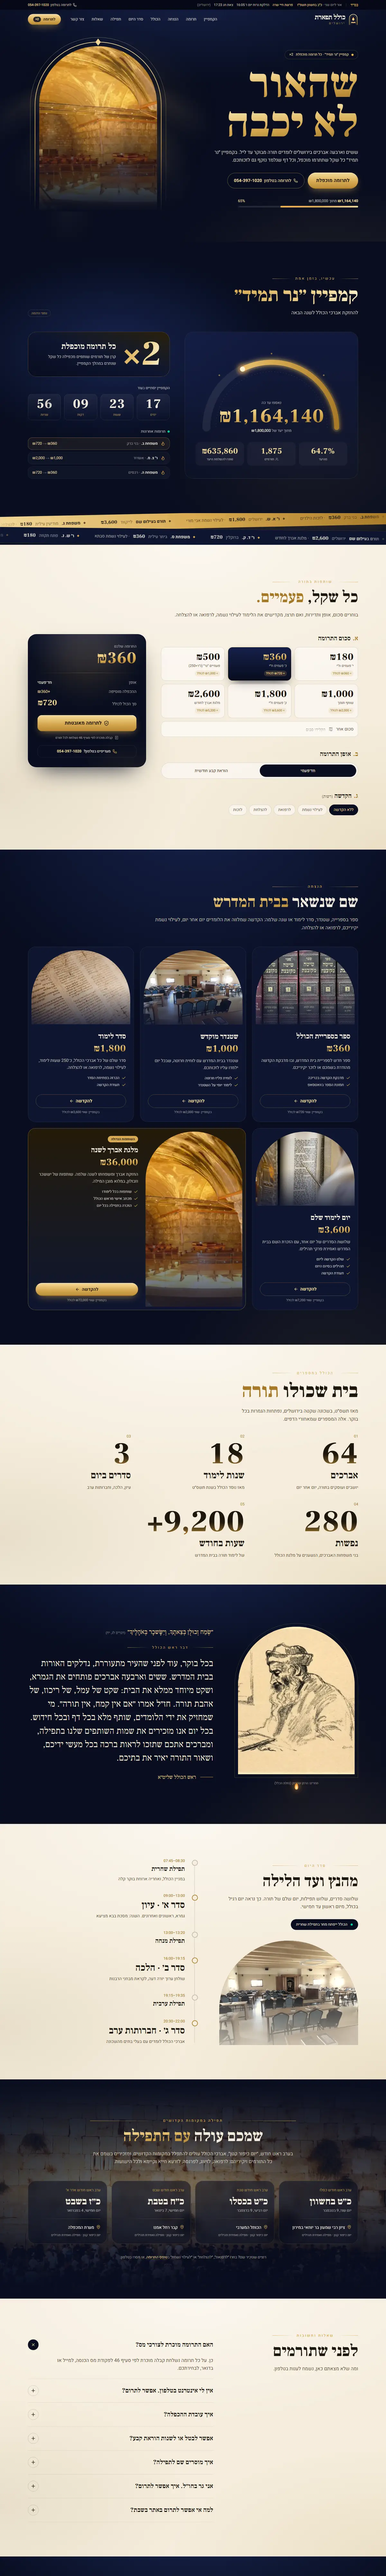
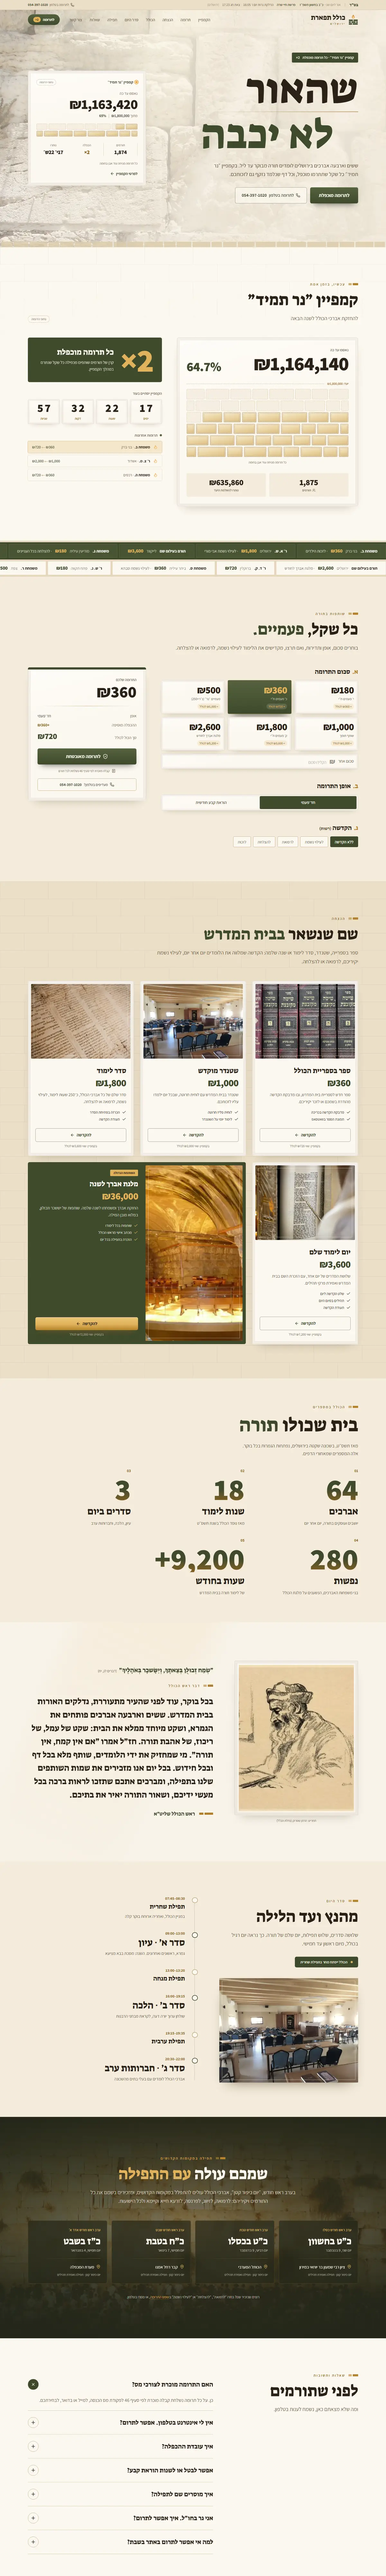
Update כולל תפארת for its Jerusalem-stone restyle; refresh article cover
New captures, palette and copy for the kollel concept site, and the
websites article cover rebuilt from the current designs.

diff --git a/src/content/websites.ts b/src/content/websites.ts
@@ -182,13 +182,13 @@ export const concepts: Website[] = [
     industry: "מוסד תורני ותרומות",
     headline: "קמפיין שמרגישים שהוא חי.",
     summary:
-      "אתר תרומות לכולל אברכים בירושלים: קמפיין עם יעד, ספירה לאחור ותרומות שנכנסות בזמן אמת, הנצחות והוראות קבע.",
+      "אתר תרומות לכולל אברכים בירושלים: אבן ירושלמית באור יום, קמפיין שנבנה אבן על אבן ותרומות שנכנסות בזמן אמת, הנצחות והוראות קבע.",
     challenge: "לגרום לתורם להרגיש שהתרומה שלו משנה — עכשיו — ולתת לו לתרום גם מטלפון כשר.",
     solution:
-      "מד קמפיין חי עם הכפלת תרומות, בחירת סכום והקדשה (לע״נ, לרפואה, להצלחה), כרטיסי הנצחה, סדר יום מונפש ותרומה בטלפון מכל מקום באתר — שעוצרת בשבת.",
+      "קיר קמפיין חי שנבנה אבן אחר אבן עם הכפלת תרומות, בחירת סכום והקדשה (לע״נ, לרפואה, להצלחה), כרטיסי הנצחה, סדר יום מונפש ותרומה בטלפון מכל מקום באתר — שעוצרת בשבת.",
     features: ["קמפיין חי", "הוראת קבע", "הנצחות", "מצב שבת", "מותאם לנטפרי"],
-    palette: ["#080d20", "#f5eddc", "#d8ab52", "#ffb347", "#22336e"],
-    glow: "#d8ab52",
+    palette: ["#3e4a2c", "#f4ecdd", "#b5832c", "#e0b25a", "#2a2117"],
+    glow: "#b5832c",
     concept: true,
     shots: { desktop: tiferetDesktop, mobile: tiferetMobile, desktopLong: tiferetDesktopLong, mobileLong: tiferetMobileLong },
   },
